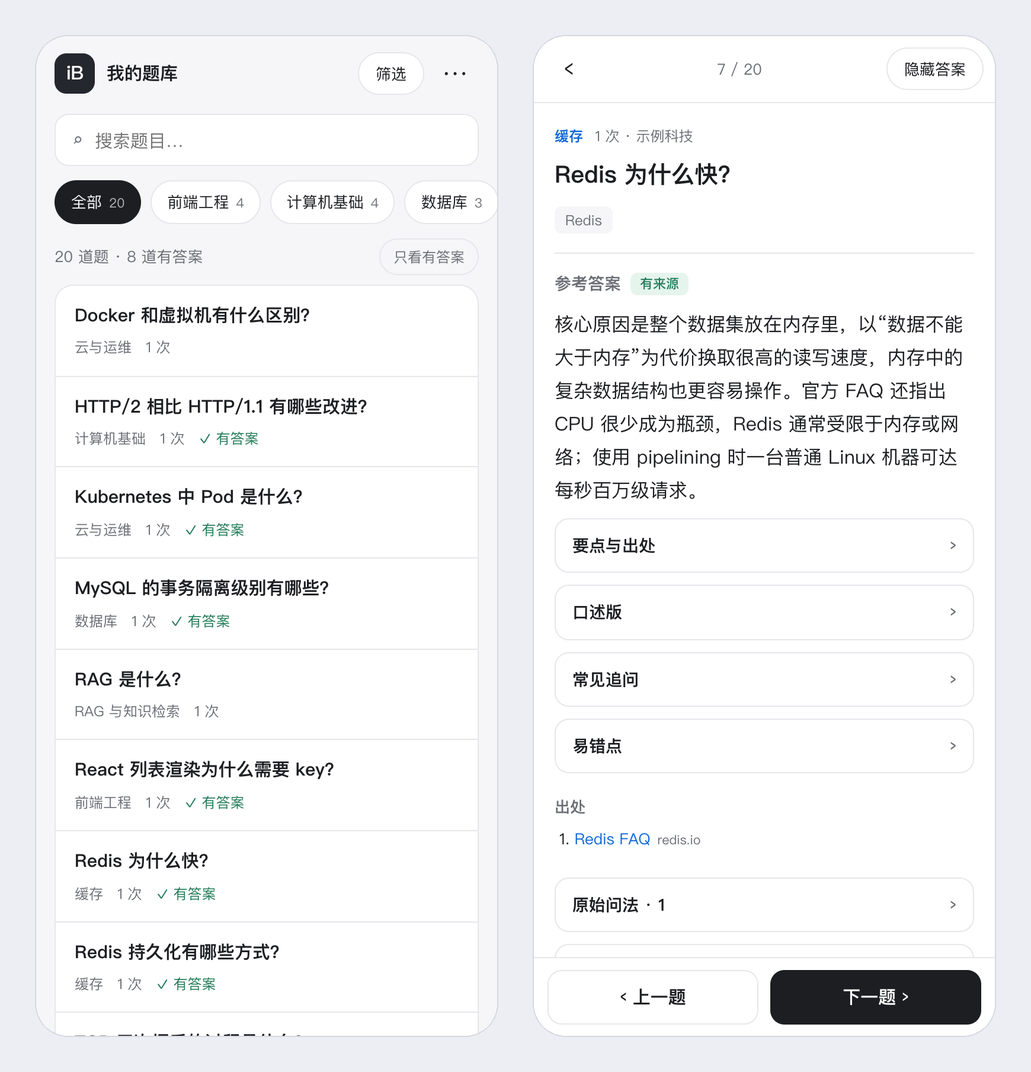
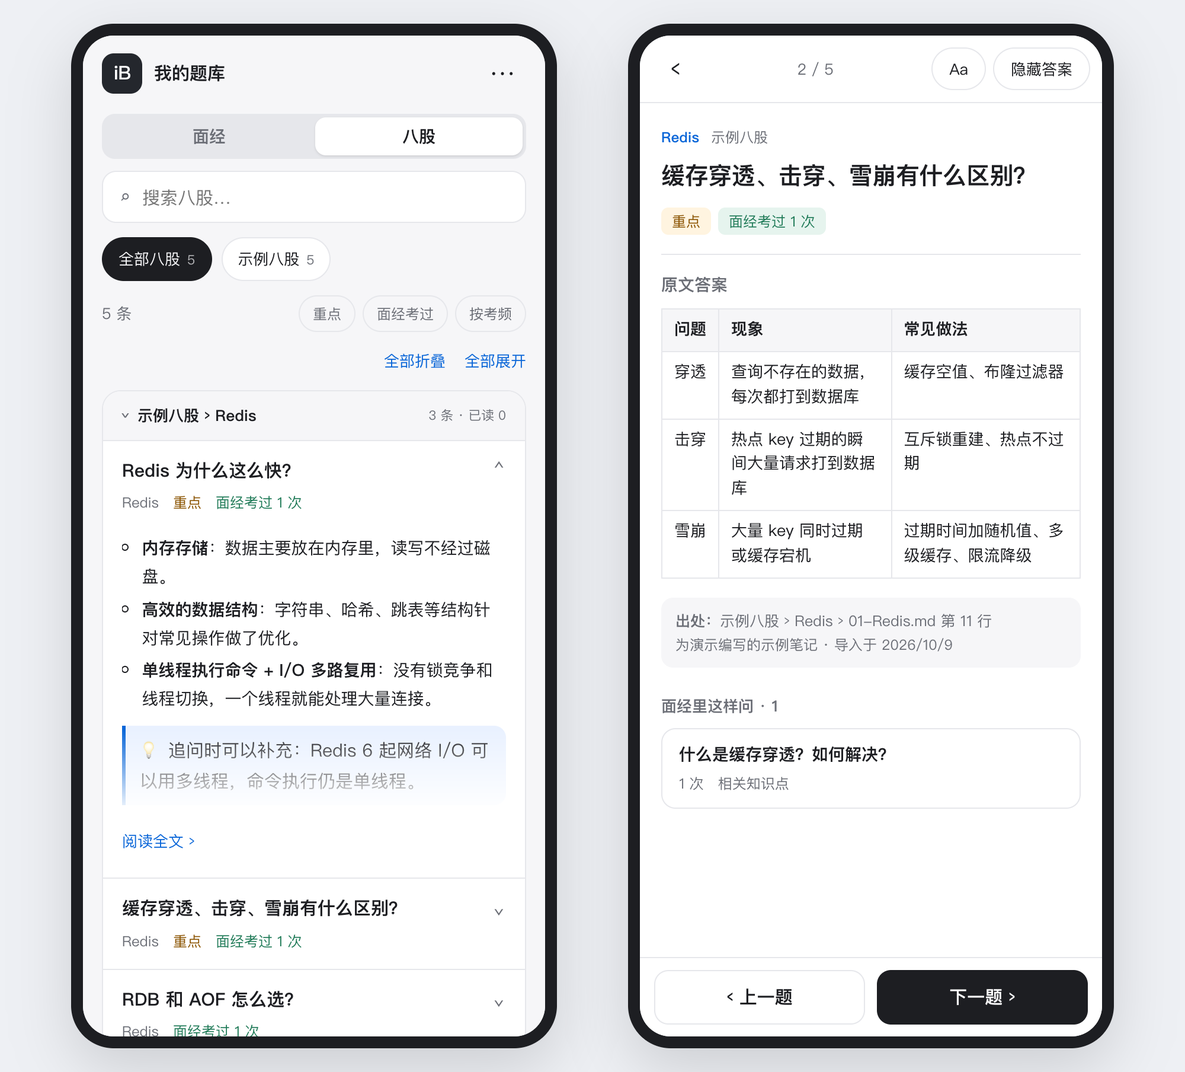
docs: README for 1.16 with the Web reader, notes section and new screenshots
- the Web reader section rewritten: two sections, reading aids, shortcuts,
  and three ways to use it (locally, on your own server, or testing with
  the author through GitHub Issues)
- screenshots regenerated from the demo bank, plus one of the notes section

Changed region(s): [[0.031, 0.0, 0.9621, 0.9912], [0.3724, 0.0619, 0.4034, 0.0929]]

diff --git a/README.en.md b/README.en.md
@@ -6,34 +6,33 @@ English | [简体中文](README.md)
 
 Suitable for internships, campus recruitment, autumn recruitment and experienced-hire interviews. Current version: **1.16.0**. See the [CHANGELOG](CHANGELOG.md) and [GitHub Releases](https://github.com/EXIST-D/Interview-bank/releases).
 
-## What's new: 1.16 a 八股 notes section, linked to your own questions
+## What's new: 1.16 a 八股 notes section and a better Web reader
 
-- **Import 八股 collections:** `notes import` reads a folder of Markdown study notes (one file per chapter, `##` headings as questions). The collection's answers are kept verbatim, each with its source (collection, chapter, file and line); 🔴 / ⭐ in a heading marks a key question. Notes never count as interview occurrences and do not touch dedupe or sourced answers.
-- **Linked both ways:** the agent judges which notes answer each interview question (same question / related topic). In the reader, a question lists its related notes, and a note lists how interviews asked it and how often; one tap jumps between them.
-- **A notes section in the Web reader:** a switch between interview questions and notes; chapters in order, with key-only, asked-only and most-asked views; lists, tables, quotes and code in answers render properly, on a phone and a computer.
-- **Reading in spare minutes:** notes grouped by chapter with folding headers (collapse all for a table of contents); a peek at any answer from the list; read marks with per-chapter progress; a random pick that prefers unread questions; highlighted search words; text size and a progress bar in the reader; foldable sidebar sections; on a computer the navigation and the list fold away, and Focus reads full-window; a system / light / dark theme; back to top.
-- Server sync and daily backups include the notes (`collections/`). See [notes](skills/interview-bank/references/notes.md).
+- **Notes section (八股):** `notes import` reads a folder of collected public study notes in Markdown (one file per chapter, `##` headings as questions). Their answers are kept verbatim with their source (collection, chapter, file and line); 🔴 / ⭐ marks key questions. Notes never count as interview occurrences and do not touch dedupe or reference answers. See [notes](skills/interview-bank/references/notes.md).
+- **Linked to your own questions:** the agent judges which notes answer each interview question (same question / related topic). In the reader a question lists its related notes, and a note lists how interviews asked it and how often, one tap apart; "asked" and "most asked" views put the questions interviewers actually ask first.
+- **A better Web reader:** notes grouped by chapter with folding headers (collapse all for a table of contents); a peek at any answer from the list; read marks and chapter progress; a random pick; on a computer the navigation and the list fold away and Focus reads full-window; text size, a reading progress bar, light / dark themes. See [the Web reader](#the-web-reader-study-on-a-computer-or-a-phone).
+- Server sync and daily backups include the notes (`collections/`).
 
-## 1.15 reading and practice online, on a phone or a computer
+## 1.15 reading online, on a phone or a computer
 
-- **A Web reader redesigned for short sessions:** on a phone, a list and a full-screen reader with previous/next at the bottom, swipe and the back gesture; on a computer, three columns (navigation, list, reader) with ←/→. Each answer lists its key points with links to the sources behind them; an optional think-first mode hides answers.
-- **On your own server:** the read-only reader can sit behind your own HTTPS server with its own login page (hashed passwords, 14-day sessions, lockout after repeated failures); `--banks-dir` gives several people one account and one bank each. `tools/deploy/sync.sh` copies the bank there from your computer (no screenshots), with daily verified backups.
-- **Deployment templates:** `tools/deploy/` holds the systemd units, nginx snippets and the account, sync and backup scripts; steps are in [local Web usage](skills/interview-bank/references/web.md).
-- Local use is unchanged: `web` still opens on your computer only, with the same new interface and no login.
-
-Details are in the [CHANGELOG](CHANGELOG.md). The local Web interface is described in [local Web usage](skills/interview-bank/references/web.md).
+- The Web page was redesigned for short sessions: a list and a full-screen reader on a phone, three columns on a computer; every key point of an answer links to the source behind it.
+- The read-only reader can run behind your own HTTPS server with its own login page, one bank per account and daily verified backups; `tools/deploy/` holds every template.
 
 ## Interface preview
 
-On a computer: navigation, question list and reader in three columns.
+On a computer: navigation, question list and reader in three columns; a question lists its related notes.
 
-![Interview Bank on a computer: navigation and topics, question list, reference answer with sources](assets/readme/web-preview.png)
+![Interview Bank on a computer: navigation and topics, question list, reference answer with sources and related notes](assets/readme/web-preview.png)
 
-On a phone: the question list and the full-screen reader with previous/next.
+The notes section: chapters that fold, a peek at an answer in the list, and a note with its source and how interviews asked it.
 
-![Interview Bank on a phone: question list and reader](assets/readme/mobile-preview.png)
+![Interview Bank notes section on a computer: chapter groups, answer peek, the collection's answer and linked interview questions](assets/readme/notes-preview.png)
 
-Both come from the `demo` sample bank (synthetic questions, fictional companies); anyone can reproduce them with `demo --bank <new dir>` and `web`.
+On a phone: chapters with a peek (left), the full-screen reader with previous/next (right).
+
+![Interview Bank on a phone: notes list and reader](assets/readme/mobile-preview.png)
+
+All come from the `demo` sample bank (synthetic questions, fictional companies, notes written for the demo); anyone can reproduce them with `demo --bank <new dir>` and `web`.
 
 ## Repository layout
 
@@ -73,7 +72,8 @@ Interview-bank/
 | Reports | Two Markdown editions plus a JSON sidecar; JSON/JSONL/CSV/Anki exports; English or Chinese |
 | Maintenance | V2 personal state, field protection, never-merge rules, research workflows, undo, change-set runs, `gc`, standalone backup and restore |
 | Preparation | JD topics with coverage gaps, daily plan calendars, review queues (simple or FSRS), one-question-at-a-time mock interviews |
-| Local Web | Browse, filter, self-rated practice, human review, merge decisions; English and Chinese, dark mode |
+| Notes (八股) | Import collected Markdown study notes with their answers and sources; agent-judged links to interview questions, both ways in the reader |
+| Web reader | Interview and notes sections, peek, read marks, random pick, folding chapters, focus reading; self-rated practice, human review, merge decisions; can run on your own server for a phone |
 
 ## Agent capabilities and requirements
 
@@ -117,7 +117,7 @@ python -B <skill dir>/scripts/ibank.py demo --bank <new dir>
 python -B <skill dir>/scripts/ibank.py web --bank <new dir> --open
 ```
 
-`demo` builds 20 synthetic questions, 8 with reference answers checked against official documentation.
+`demo` builds 20 synthetic questions, 8 with reference answers checked against official documentation, and a small notes collection written for the demo (5 notes, linked to the questions).
 
 ## Examples
 
@@ -139,17 +139,32 @@ Export my bank as Anki cards.
 Open the local Web reader; I want to review answers myself and settle the uncertain merges.
 ```
 
-## Local Web reader and practice
+## The Web reader: study on a computer or a phone
 
-> Use interview-bank to open the local Web reader for my bank so I can browse and practise.
+The agent organises the bank; the Web page is for reading it. The page runs no AI and searches nothing online; it only reads your bank.
 
-```text
-python -B <skill dir>/scripts/ibank.py web --bank <existing bank> --open
-```
+- **Two sections:** *Interviews* holds the real questions you collected, most frequent first, with reference answers whose sources you can check; *Notes* holds the public study notes you collected, in chapter order, with their own answers and sources. The two link to each other.
+- **Made for spare minutes:** on a phone, a list and a full-screen reader with previous/next at the bottom or a swipe; a peek at any answer from the list; read marks and chapter progress; a random pick that prefers unread questions; Think first hides answers by default.
+- **Three columns on a computer:** navigation, list and reader. The navigation and the list fold away, and Focus lets the reader fill the window at a comfortable line length.
+- **Easy on the eyes:** three text sizes, a reading progress bar, light / dark / system themes, highlighted search words; tables, code, quotes and nested lists in long answers render properly. Read marks, folds, text size and theme stay in the browser.
+- **Practice and your own decisions** (when run locally): self-rated practice (V2 banks save progress and schedule reviews), **human review** of answers and **merge decisions** on pairs the agent was unsure about; only you can press these.
 
-The server listens on the loopback interface only (`127.0.0.1` or `localhost`); use the full launch URL it prints, stop it with Ctrl+C, and add `--read-only` to disable all writes. The page offers filters and search, answers and original wording, self-rated practice (saved in V2 banks; a round survives a reload), **human review** (only you can press it), **merge decisions** (you settle the merges the agent was unsure about), English or Chinese and dark mode. It runs no AI and does not grade answers.
+| Shortcut (computer) | Action |
+|---|---|
+| ← / → or K / J | Previous / next |
+| Space | Show the answer (in Think first) |
+| / | Search |
+| F | Focus (fold the navigation and the list) |
+| L | Fold / unfold the list |
+| Esc | Leave focus |
 
-**Reading on a phone (optional):** the read-only reader can sit behind your own HTTPS server and a login; `tools/deploy/sync.sh` copies the bank data there (no screenshots). Steps and templates: [local Web usage](skills/interview-bank/references/web.md) and `tools/deploy/`.
+### Three ways to use it
+
+| Way | For | How |
+|---|---|---|
+| **On your computer** | Reading on the machine where your bank is | `python -B <skill dir>/scripts/ibank.py web --bank <bank> --open`. Loopback only (127.0.0.1), no login; Ctrl+C stops it and `--read-only` disables writes. Or ask the agent to open your bank's Web reader. |
+| **On your own server** | Reading on a phone anywhere | The read-only reader sits behind your own HTTPS reverse proxy: its own login page (hashed passwords, lockout after failures), one bank per account, daily verified backups. `tools/deploy/sync.sh` copies the bank text and notes from your computer, never screenshots. Steps: [Web usage](skills/interview-bank/references/web.md) and `tools/deploy/`. |
+| **Test it with the author** | Trying the hosted reader first, or when you cannot deploy one yet | Contact the author through [GitHub Issues](https://github.com/EXIST-D/Interview-bank/issues) for an account to test with. Each account sees only its own bank; the server keeps only the bank text (no screenshots), deleted on request. |
 
 ## Processing policy
 
@@ -193,6 +208,7 @@ The JSONL files in `data/` are the only source of truth and are queried directly
 | On-screen text in videos | Only speech is processed; capture silent on-screen questions as screenshots |
 | Speaker separation, resuming inside long recordings | Speaker labels from the tool are kept; resume is per file |
 | Editing in the Web reader | Question edits and intake stay with the agent; the Web reader reads, practises, reviews and decides merges |
+| Reading progress across devices | Read marks and folds stay in one browser; a hosted reader does not yet send practice ratings back |
 | MCP server | Planned as a separate optional package; the core stays dependency-free |
 
 **Other limits:** review queues are generated on demand with no background reminders; exact token and cost figures depend on the host; splitting an arbitrary historical merge is not supported, only undoing the latest eligible operation.

diff --git a/README.md b/README.md
@@ -6,34 +6,33 @@
 
 适用于校招、实习、秋招和社招。当前版本为 **1.16.0**。详见 [更新记录](CHANGELOG.md) 与 [GitHub Releases](https://github.com/EXIST-D/Interview-bank/releases)。
 
-## 本次更新：1.16 八股板块，与自己的面经题互相关联
+## 本次更新：1.16 八股板块 + 更好用的网页阅读器
 
-- **导入八股题库**：把收集到的八股文（一个文件夹的 Markdown，每个文件一章，`##` 标题为题目）用 `notes import` 导入。原文答案逐字保留，每条都标注出处（题库、章节、文件和行号）；标题里的 🔴 / ⭐ 识别为重点。八股不计入面经出现次数，也不影响去重和有来源的参考答案。
-- **两边关联**：Agent 判断每道面经题对应哪些八股条目（同一题 / 相关知识点）。在网页里，面经题下面列出"相关八股"，八股条目下面列出"面经里这样问"和被问过的次数，点击即可来回跳转。
-- **网页里的八股板块**：顶部"面经 / 八股"切换；八股按题库、章节顺序阅读，可以只看重点、只看面经考过的，或按考频排序；答案中的列表、表格、引用和代码块都能正常显示。手机和电脑都适配。
-- **更适合碎片时间的阅读**：八股按章节分组、可折叠（"全部折叠"后就是一份目录）；列表里每题可展开速览答案；打开过的题记为已读，章节标题显示已读进度；"随机一题"优先挑没读过的；搜索词高亮；阅读页可调字号并显示阅读进度；侧栏分组可折叠；电脑上左侧导航和中间列表都能收起，"专注"一键全屏阅读；外观可选跟随系统 / 浅色 / 深色；长列表一键回到顶部。
-- 服务器同步和每日备份都会带上八股（`collections/`）。详见 [八股说明](skills/interview-bank/references/notes.md)。
+- **八股板块**：把收集到的公开八股题库（一个文件夹的 Markdown，每个文件一章、`##` 标题为题目）用 `notes import` 导入。原文答案逐字保留并标注出处（题库、章节、文件和行号），🔴 / ⭐ 标记识别为重点。八股不计入面经出现次数，不影响去重和参考答案。详见 [八股说明](skills/interview-bank/references/notes.md)。
+- **面经与八股互相关联**：Agent 逐题判断每道面经题对应哪些八股条目（同一题 / 相关知识点）。网页里，面经题下列出"相关八股"，八股条目下列出"面经里这样问"和被问过的次数，一点即可来回跳转；"面经考过""按考频"帮你先背最常被问的。
+- **网页阅读器全面升级**：八股按章节分组、可折叠（全部折叠即是目录）；列表里直接速览答案；已读标记与章节进度；随机一题；电脑上导航和列表都能收起，"专注"全屏阅读；字号、阅读进度条、浅色 / 深色主题。详见下文 [网页阅读器](#网页阅读器电脑和手机上随时刷题)。
+- 服务器同步和每日备份都包含八股（`collections/`）。
 
-## 1.15 手机和电脑上的在线阅读与练习
+## 1.15 手机和电脑上的在线阅读
 
-- **为碎片时间重新设计的网页**：手机上是列表 + 全屏阅读，底部"上一题 / 下一题"、左右滑动、返回手势回到列表；电脑上是三栏（导航、列表、阅读），键盘 ←/→ 切换。答案下方列出"要点与出处"，每个要点都能点开它依据的原始资料；可开启"先想再看"。
-- **放到自己的服务器上**：只读阅读器可以部署在你自己的 HTTPS 服务器后面，带独立登录页（密码只存摘要、会话 14 天、连续输错锁定）；`--banks-dir` 支持多人各用一个账号、只看到自己的题库。题库由 `tools/deploy/sync.sh` 从本机同步过去（不含截图），每日自动备份并校验。
-- **部署模板**：`tools/deploy/` 提供 systemd 服务、nginx 配置、账号管理、同步和备份脚本；步骤见 [本地 Web 说明](skills/interview-bank/references/web.md)。
-- 本地使用不受影响：`web` 命令仍只在本机打开，同样是新界面，不需要登录。
-
-详见 [更新记录](CHANGELOG.md)。本地 Web 用法见 [本地 Web 说明](skills/interview-bank/references/web.md)。
+- 网页按"碎片时间阅读"重新设计：手机上列表 + 全屏阅读，电脑上三栏；答案的每个要点都能点开它依据的原始资料。
+- 只读阅读器可以部署在自己的 HTTPS 服务器上：独立登录页、多账号（每人一个题库）、每日校验备份；`tools/deploy/` 提供全部模板。
 
 ## 界面示例
 
-电脑上：导航、题目列表和阅读区三栏。
+电脑上：导航、题目列表和阅读区三栏；面经题下面列出相关八股。
 
-![Interview Bank 网页（电脑）：左侧导航与主题，中间题目列表，右侧参考答案与出处](assets/readme/web-preview.png)
+![Interview Bank 网页（电脑）：左侧导航与主题，中间题目列表，右侧参考答案、出处与相关八股](assets/readme/web-preview.png)
 
-手机上：题目列表与全屏阅读，底部切换上一题 / 下一题。
+八股板块：按章节分组、可折叠，列表里直接速览答案；阅读页显示原文答案、出处，以及面经里怎么问。
 
-![Interview Bank 网页（手机）：题目列表与阅读页](assets/readme/mobile-preview.png)
+![Interview Bank 网页（电脑）八股板块：章节分组列表、速览答案、原文答案与面经关联](assets/readme/notes-preview.png)
 
-两张图都由 `demo` 示例题库生成（合成题目与虚构公司），任何人都可以用 `demo --bank <新目录>` 和 `web` 复现。
+手机上：章节目录与速览（左），全屏阅读与上一题 / 下一题（右）。
+
+![Interview Bank 网页（手机）：八股章节列表与阅读页](assets/readme/mobile-preview.png)
+
+截图都来自 `demo` 示例题库（合成题目、虚构公司、为演示编写的八股），任何人都可以用 `demo --bank <新目录>` 和 `web` 复现。
 
 ## 仓库结构
 
@@ -73,7 +72,8 @@ Interview-bank/
 | 报告 | 带答案与纯题目两版 Markdown + 结构化附件；JSON/JSONL/CSV/Anki 导出；可切换英文 |
 | 持续维护 | V2 个人状态、字段保护、禁止合并、研究工作流、撤销、增量快照、`gc` 清理、独立备份与恢复 |
 | 备考 | JD 专题选题与覆盖缺口、每日计划日历、复习队列（简单间隔或 FSRS）、逐题模拟面试 |
-| 本地 Web | 浏览、筛选、练习自评、人工审阅、合并裁决；中英文、暗色模式 |
+| 八股板块 | 导入收集的 Markdown 八股题库，原文答案标注出处；Agent 判断与面经题的关联，网页里双向跳转 |
+| 网页阅读器 | 面经 / 八股两个板块，速览、已读、随机一题、章节折叠、专注阅读；练习自评、人工审阅、合并裁决；可部署到自己的服务器在手机上看 |
 
 ## Agent 能力与环境要求
 
@@ -117,7 +117,7 @@ python -B <Skill目录>/scripts/ibank.py demo --bank <新目录>
 python -B <Skill目录>/scripts/ibank.py web --bank <新目录> --open
 ```
 
-`demo` 生成 20 道合成题（8 道附有核对过官方文档的参考答案），可以直接浏览、导出和练习。
+`demo` 生成 20 道合成题（8 道附有核对过官方文档的参考答案）和一小套为演示编写的八股（5 条，已与题目关联），可以直接浏览、导出和练习。
 
 ## 使用示例
 
@@ -157,17 +157,32 @@ python -B <Skill目录>/scripts/ibank.py web --bank <新目录> --open
 请分批保存和提交，完成后说明题目数量、答案覆盖、输出文件及未解决事项。
 ```
 
-## 本地 Web 查阅与练习
+## 网页阅读器：电脑和手机上随时刷题
 
-> 请用 interview-bank 打开我指定题库的本地 Web 界面，让我浏览题目和练习。
+Agent 负责把题目整理进题库，网页负责"读"。页面不调用 AI、不联网检索，只读取你的题库。
 
-```text
-python -B <Skill目录>/scripts/ibank.py web --bank <已有题库目录> --open
-```
+- **两个板块**：「面经」是你积累的真实面试题，按出现次数排序，配有出处可查的参考答案；「八股」是你收集的公开题库，按章节顺序阅读，原文答案标注出处。两边互相关联，一点即可来回跳转。
+- **为碎片时间设计**：手机上列表 + 全屏阅读，底部上一题 / 下一题，也可以左右滑动；列表里每题可展开速览答案；打开过的题记为已读，章节标题显示进度；"随机一题"优先挑没读过的；"先想再看"默认隐藏答案。
+- **电脑上三栏**：导航、列表、阅读区。导航和列表都能收起，"专注"让阅读区占满窗口，正文保持舒适的行宽。
+- **读得舒服**：三档字号、阅读进度条、浅色 / 深色 / 跟随系统、搜索词高亮；长答案里的表格、代码、引用和多级列表都正常排版。已读、折叠、字号和外观保存在当前浏览器。
+- **练习与把关**（本机运行时）：练习自评（V2 题库保存进度并安排复习）、对答案做**人工审阅**、对 Agent 不确定的合并做**裁决**，这些只能由你本人在页面上点击完成。
 
-服务只监听本机（`127.0.0.1` 与 `localhost` 均可），使用启动时返回的完整链接；终端中按 Ctrl+C 停止，`--read-only` 禁用所有写入。页面支持：多维筛选与搜索、答案与原始问法阅读、练习自评（V2 题库保存，刷新后可继续本轮）、**人工审阅**（只有你本人能点击）、**合并裁决**（Agent 不确定的合并由你判断）、中英文与暗色模式。Web 不调用 AI，也不自动判分。
+| 快捷键（电脑） | 作用 |
+|---|---|
+| ← / → 或 K / J | 上一题 / 下一题 |
+| 空格 | 显示答案（"先想再看"时） |
+| / | 搜索 |
+| F | 专注阅读（收起导航和列表） |
+| L | 收起 / 展开列表 |
+| Esc | 退出专注 |
 
-**在手机上看（可选）**：可以把只读阅读器部署到自己的 HTTPS 服务器上，经反向代理登录后访问，题库由 `tools/deploy/sync.sh` 从本机同步过去（只同步题库数据，不含截图）。步骤与模板见 [本地 Web 说明](skills/interview-bank/references/web.md) 和 `tools/deploy/`。
+### 三种使用方式
+
+| 方式 | 适合 | 怎么做 |
+|---|---|---|
+| **本机打开** | 只在自己电脑上用 | `python -B <Skill目录>/scripts/ibank.py web --bank <题库目录> --open`。只监听本机（127.0.0.1），不需要登录，Ctrl+C 停止，`--read-only` 禁用写入。也可以直接对 Agent 说"打开我的题库网页"。 |
+| **部署到自己的服务器** | 想在手机上随时看 | 只读阅读器放在你自己的 HTTPS 反向代理后面：独立登录页（密码只存摘要、连续输错锁定）、多账号各看各的题库、每日校验备份。题库用 `tools/deploy/sync.sh` 从本机同步，只传题库文本和八股，不传截图。步骤见 [Web 说明](skills/interview-bank/references/web.md) 与 `tools/deploy/`。 |
+| **联系作者一起测试** | 想先试试在线版，或暂时不方便自己部署 | 通过 [GitHub Issues](https://github.com/EXIST-D/Interview-bank/issues) 联系作者，开通一个账号一起测试。每个账号只能看到自己的题库；服务器上只保存题库文本（不含截图），可以随时要求删除。 |
 
 ## 处理策略
 
@@ -211,6 +226,7 @@ python -B <Skill目录>/scripts/ibank.py web --bank <已有题库目录> --open
 | 视频画面题目提取 | 只处理视频语音；画面中未被念出的文字需另行截图 |
 | 说话人分离与长录音断点续转 | 可保留工具提供的说话人信息，按文件恢复 |
 | Web 内编辑 | 题目编辑与素材导入仍由 Agent 完成；Web 负责阅读、练习、审阅和合并裁决 |
+| 跨设备同步阅读进度 | 已读、折叠等记录目前只保存在当前浏览器；部署到服务器时练习自评暂不回传本机 |
 | MCP 形态 | 计划作为独立可选包，核心保持零依赖 |
 
 **其他边界：**复习队列按需生成，没有后台提醒；精确 Token 和费用统计依赖宿主；任意历史合并的拆分尚不支持，仅支持满足条件的最近操作撤销。

diff --git a/CHANGELOG.md b/CHANGELOG.md
@@ -28,6 +28,8 @@ A 八股 notes section beside the bank's own questions. Data stays V1/V2; no mig
 
 ### Changed
 - Backups and `tools/deploy/sync.sh` include `collections/`.
+- README: the Web reader section rewritten (two sections, reading aids, shortcuts, and three ways to use it: locally,
+  on your own server, or testing with the author); new screenshots from the demo bank, including the notes section.
 
 ## [1.15.0] - 2026-10-08
 
